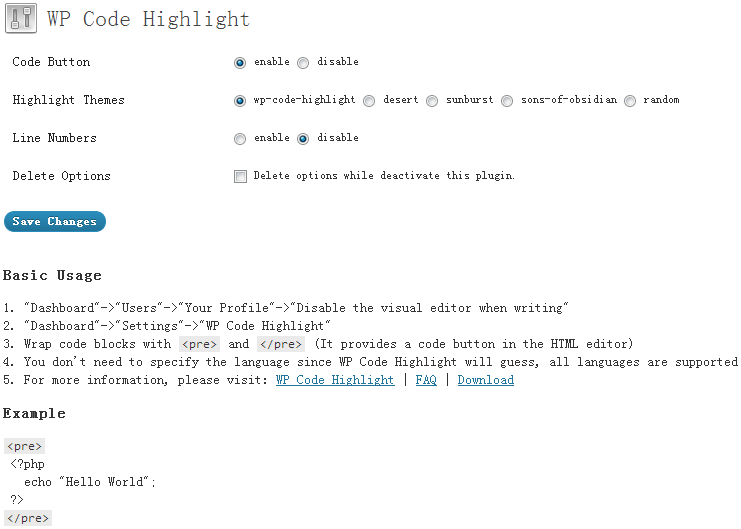
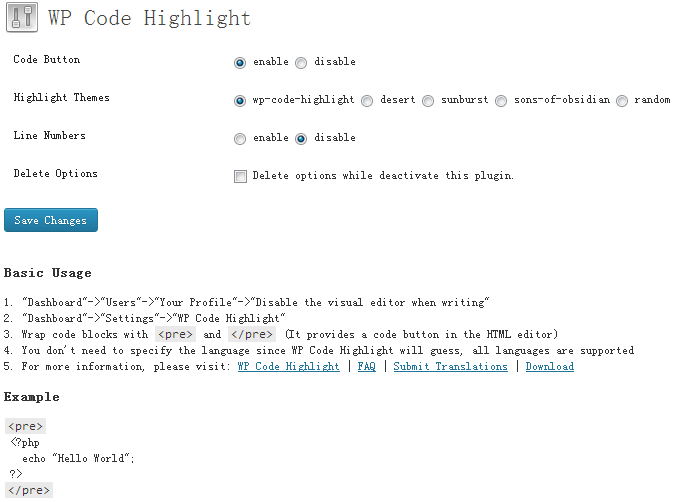
version 1.2.7

diff --git a/wp_code_highlight_admin.php b/wp_code_highlight_admin.php
@@ -98,7 +98,7 @@ function wp_code_highlight_options(){
 2. "Dashboard"->"Settings"->"WP Code Highlight"<br />
 3. Wrap code blocks with <code>&lt;pre&gt;</code> and <code>&lt;/pre&gt;</code> (It provides a code button in the HTML editor)<br />
 4. You don't need to specify the language since WP Code Highlight will guess, all languages are supported<br />
-5. For more information, please visit: <a href="http://boliquan.com/wp-code-highlight/" target="_blank">WP Code Highlight</a> | <a href="http://boliquan.com/wp-code-highlight/" title="WP Code Highlight" target="_blank">FAQ</a> | <a href="http://wordpress.org/extend/plugins/wp-code-highlight/" target="_blank">Download</a>
+5. For more information, please visit: <a href="http://boliquan.com/wp-code-highlight/" target="_blank">WP Code Highlight</a> | <a href="http://boliquan.com/wp-code-highlight/" title="WP Code Highlight" target="_blank">FAQ</a> | <a href="http://boliquan.com/wp-code-highlight/" target="_blank">Submit Translations</a> | <a href="http://wordpress.org/extend/plugins/wp-code-highlight/" target="_blank">Download</a>
 
 <h3>Example</h3>
 <code>&lt;pre&gt;</code><br />
@@ -108,10 +108,11 @@ function wp_code_highlight_options(){
 <code>&lt;/pre&gt;</code>
 
 <h3>Other Plugins</h3>
-1. <a href="http://boliquan.com/wp-smtp/" target="_blank">WP SMTP</a> | <a href="http://wordpress.org/extend/plugins/wp-smtp/" target="_blank">Download</a><br />
-2. <a href="http://boliquan.com/wp-slug-translate/" target="_blank">WP Slug Translate</a> | <a href="http://wordpress.org/extend/plugins/wp-slug-translate/" target="_blank">Download</a><br />
-3. <a href="http://boliquan.com/wp-anti-spam/" target="_blank">WP Anti Spam</a> | <a href="http://wordpress.org/extend/plugins/wp-anti-spam/" target="_blank">Download</a><br />
-4. <a href="http://boliquan.com/yg-share/" target="_blank">YG Share</a> | <a href="http://wordpress.org/extend/plugins/yg-share/" target="_blank">Download</a>
+1. <a href="http://boliquan.com/wp-clean-up/" target="_blank">WP Clean Up</a> | <a href="http://wordpress.org/extend/plugins/wp-clean-up/" target="_blank">Download</a><br />
+2. <a href="http://boliquan.com/wp-smtp/" target="_blank">WP SMTP</a> | <a href="http://wordpress.org/extend/plugins/wp-smtp/" target="_blank">Download</a><br />
+3. <a href="http://boliquan.com/wp-slug-translate/" target="_blank">WP Slug Translate</a> | <a href="http://wordpress.org/extend/plugins/wp-slug-translate/" target="_blank">Download</a><br />
+4. <a href="http://boliquan.com/wp-anti-spam/" target="_blank">WP Anti Spam</a> | <a href="http://wordpress.org/extend/plugins/wp-anti-spam/" target="_blank">Download</a><br />
+5. <a href="http://boliquan.com/yg-share/" target="_blank">YG Share</a> | <a href="http://wordpress.org/extend/plugins/yg-share/" target="_blank">Download</a>
 
 <br /><br />
 <?php $donate_url = plugins_url('/img/paypal_32_32.jpg', __FILE__);?>

diff --git a/wp-code-highlight.php b/wp-code-highlight.php
@@ -3,7 +3,7 @@
 Plugin Name: WP Code Highlight
 Plugin URI: http://boliquan.com/wp-code-highlight/
 Description: WP Code Highlight provides clean syntax highlighting and it also provides a code button. Wrap code blocks with <code>&lt;pre&gt;</code> and <code>&lt;/pre&gt;</code>
-Version: 1.2.6
+Version: 1.2.7
 Author: BoLiQuan
 Author URI: http://boliquan.com/
 Text Domain: WP-Code-Highlight
